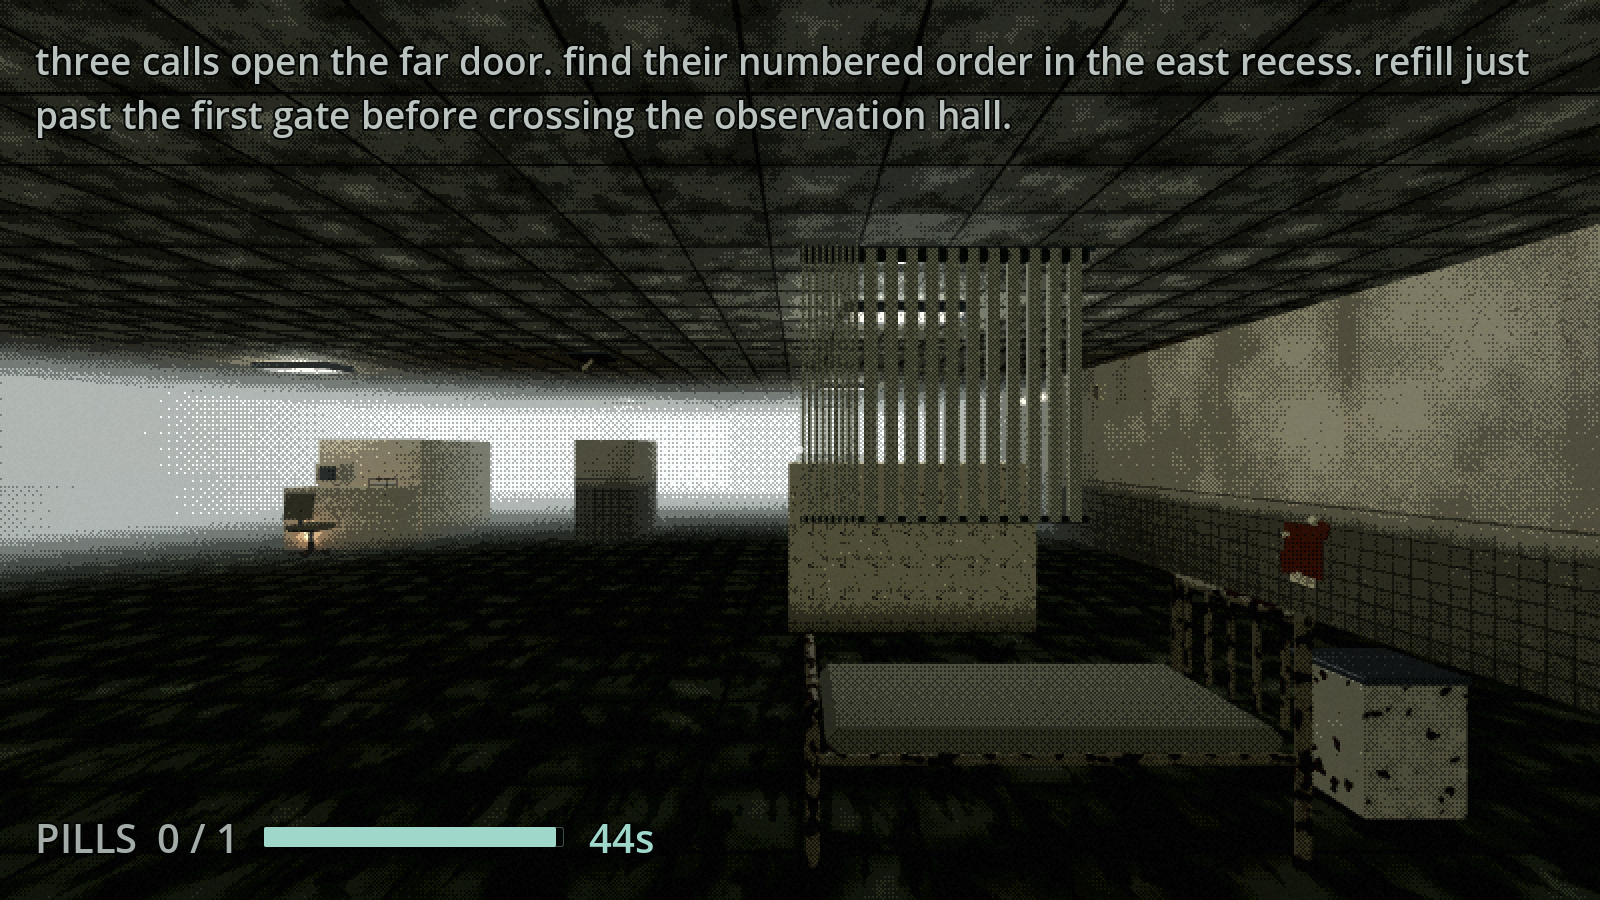
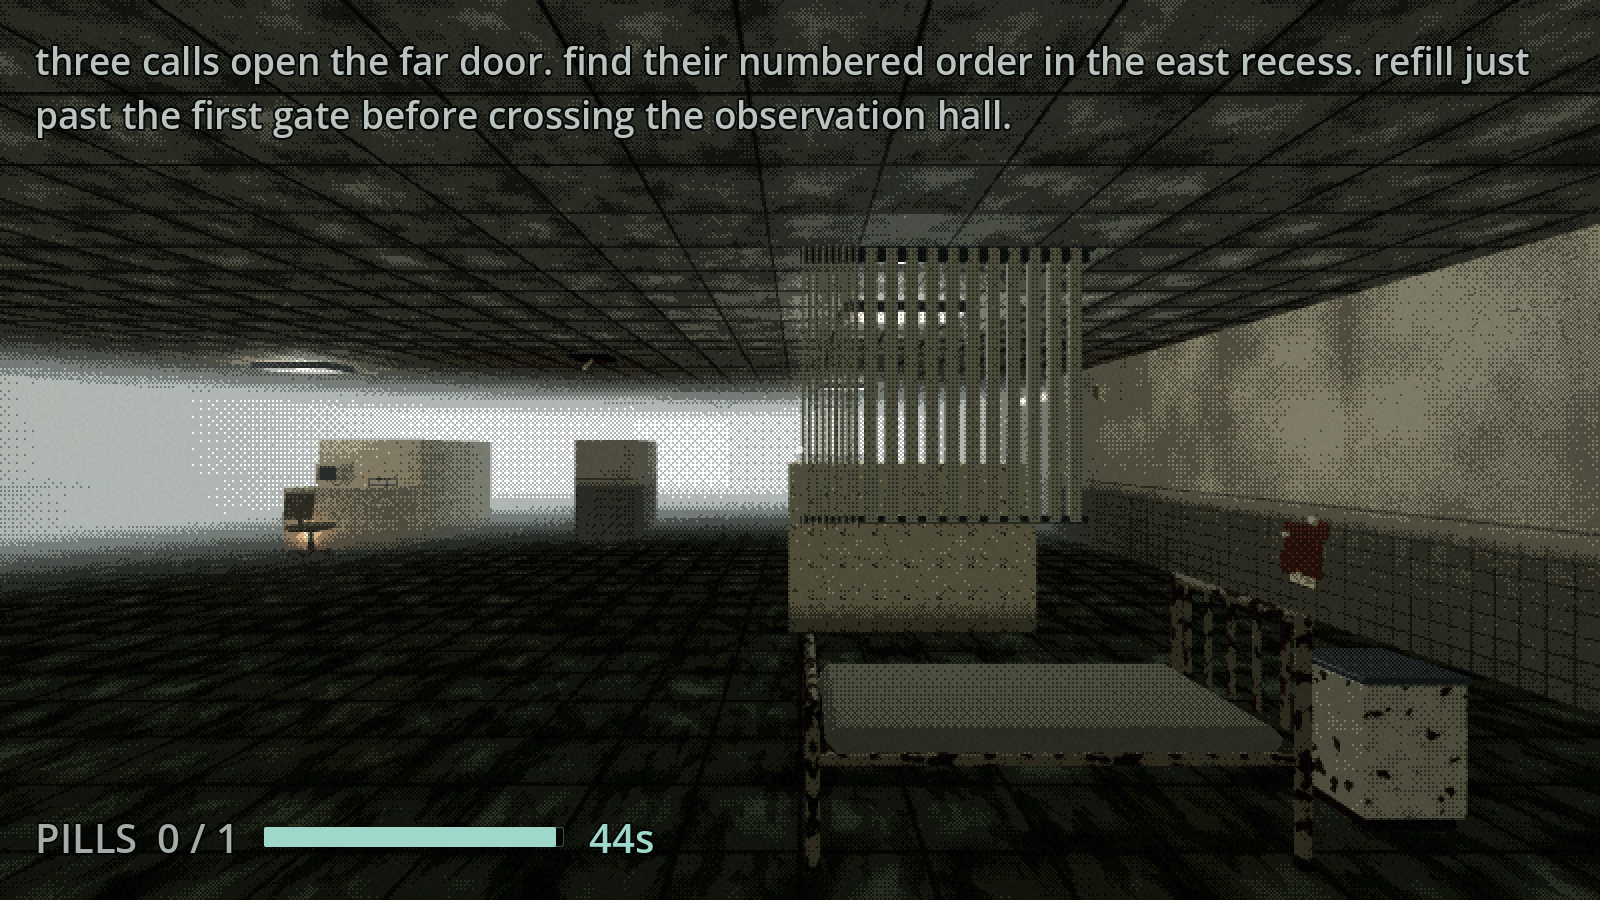
Make unmedicated shadows navigable and brightness effective

diff --git a/press/store-description.html b/press/store-description.html
@@ -18,6 +18,8 @@
 
 <p><strong>Touch:</strong> left stick to move, right-side drag to look, and on-screen interact, shift and pause buttons.</p>
 
+<p>Use <strong>Configuration</strong> to choose black and white and adjust brightness. Raise brightness until nearby floors, walls and obstacles are clear; it also reveals more detail in unmedicated shadows.</p>
+
 <h3>Playtest data</h3>
 
 <p>The itch build collects gameplay and technical data to help us understand progress, catches, quitting points and performance. This includes session/player identifiers, approximate in-room positions, and browser/device context. It does not request your name or email. For an untracked session, open the embedded game in its own tab and add <strong>?notrack=1</strong> to that game URL before playing; adding it only to this store page does not opt out the embedded game.</p>

diff --git a/godot/tools/gen_rooms.py b/godot/tools/gen_rooms.py
@@ -4892,8 +4892,12 @@ def room17():
     # up inside the solid stepped blocks and contributes nothing. Both are
     # cosmetic and neither can be fixed room-side; the bounce Y needs to
     # follow its fitting's level in Emitter.emit().
+    # The south hall is 18m wide while the fittings reach only 6m. Keeping all
+    # three on x=0 leaves both walls and the records island outside useful
+    # direct light in UNMED. Alternate the next two across the route so each
+    # wall and the island gets a pool without adding another WebGL light.
     r.ward_lights([
-        (0, 32, 2.7), (0, 26, 2.7), (0, 20, 2.7),          # south hall
+        (0, 32, 2.7), (-4, 26, 2.7), (4, 20, 2.7),         # south hall
         (7, 13, 4.0),                                       # east stairwell
         (4, 4, 2.7), (-5, 6, 2.7), (-4, 0, 2.7), (0, -4, 2.7),   # pocket
         (5, 7, 5.7), (0, 1, 5.7), (-4, -4, 5.7),            # gallery

diff --git a/press/release-notes.md b/press/release-notes.md
@@ -8,9 +8,10 @@ This update gives Ward B more puzzle variety, more furnished spaces and more pre
 - **A fuller second half.** Treatment bays, observation wards, a two-storey gallery and service areas now have more landmarks, cover and distinct routes. The later rooms mix familiar puzzle rules with new spatial problems.
 - **Orderlies that react.** Pursuit and noise make your route matter. Medication can break a chase, but later hazards challenge the idea that lucid always means safe.
 - **Readable in monochrome.** Upright shapes, matching door-pad symbols, brighter bell fixtures and lit medication stations make key interactions easier to identify without color.
+- **Darkness you can navigate.** Unmedicated lighting now reveals more of the nearby environment. The brightness control lifts shadow detail as well as lit surfaces, with a stronger high setting for screens that need it. The gallery's lights now reach more of its route.
 - **Checkpoints and browser controls.** Clinical charts save milestones when browser storage is available. Mouse/keyboard, touch controls and hybrid input are supported.
 
-The PS1-inspired grain and dithered color treatment now sit alongside an optional monochrome mode. The new page screenshots come directly from the current game.
+The PS1-inspired grain and dithered color treatment now sit alongside an optional monochrome mode. The updated press kit uses captures directly from the game.
 
 Playtest data helps us find rooms where players get stuck, stop playing or encounter performance issues. The store page explains what is collected and how to start an untracked session.
 

diff --git a/press/store-description.md b/press/store-description.md
@@ -26,6 +26,8 @@ This is an evolving playtest. Tell us which room you reached, where you felt los
 
 **Touch:** left stick to move, right-side drag to look, and on-screen interact, shift and pause buttons.
 
+Use **Configuration** to choose black and white and adjust brightness. Raise brightness until nearby floors, walls and obstacles are clear; it also reveals more detail in unmedicated shadows.
+
 ### Playtest data
 
 The itch build collects gameplay and technical data to help us understand progress, catches, quitting points and performance. This includes session/player identifiers, approximate in-room positions, and browser/device context. It does not request your name or email. For an untracked session, open the embedded game in its own tab and add **?notrack=1** to that game URL before playing; adding it only to this store page does not opt out the embedded game.

diff --git a/press/README.md b/press/README.md
@@ -3,6 +3,9 @@
 Updated 2026-09-12 for the survival-horror playtest. The maintained and public
 game is `godot/`. The current marketing assets are in **`current/`**.
 
+Store tags: `3d`, `atmospheric`, `browser`, `first-person`, `horror`,
+`psychological-horror`, `puzzle`, `short`, `survival-horror`, `psx`.
+
 ## Publish these assets
 
 - `current/cover.png` — 630×500 cover. The title and tagline are composed by
